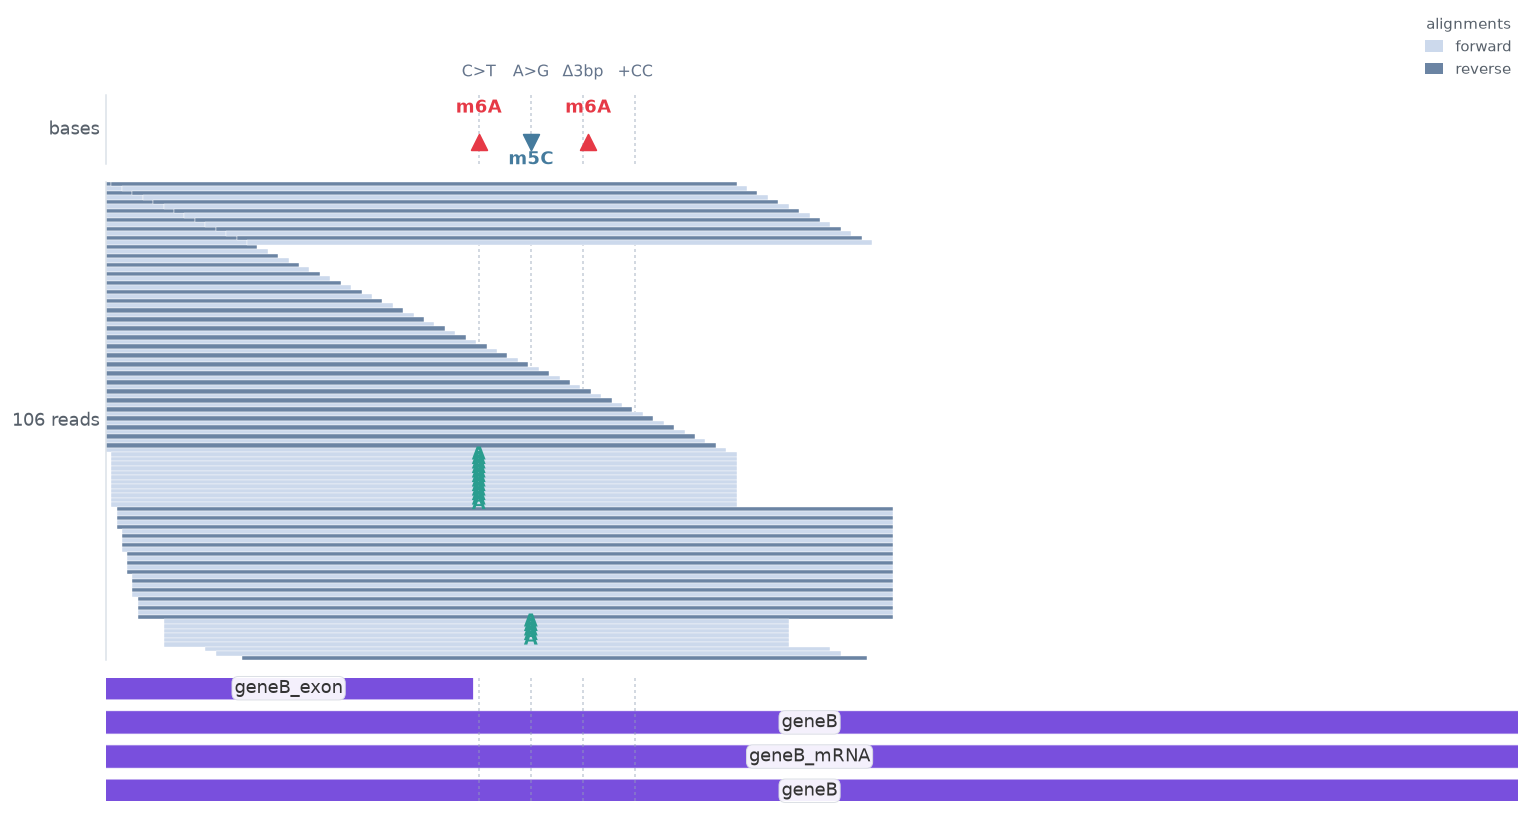
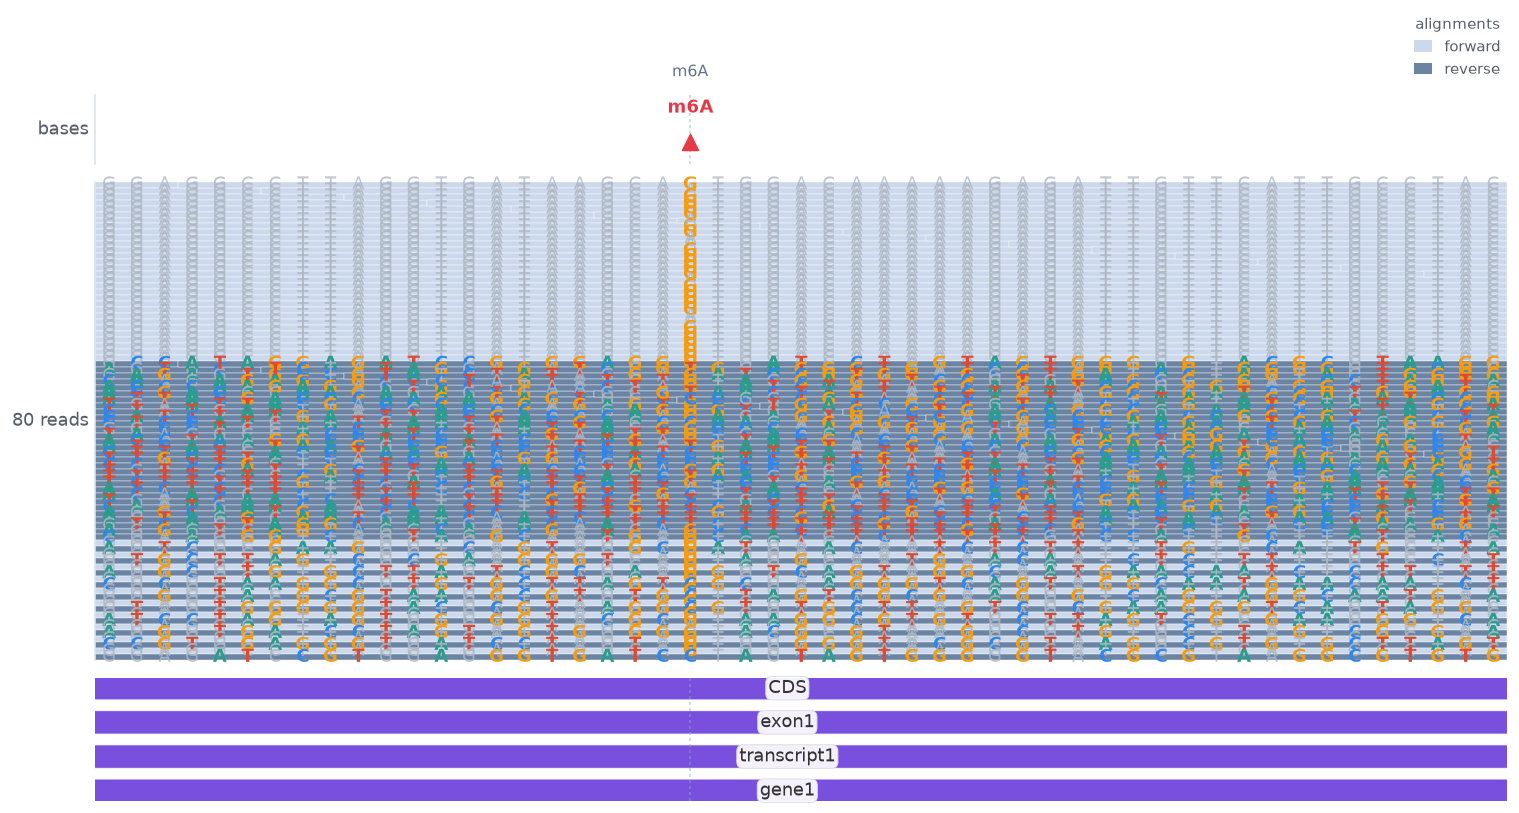
Fix m6A GLORI BAM: set reference_id so reads are properly mapped
- Add reference_id = 0 to AlignedSegment in make_m6a_glori_bam.py
- Regenerate m6a_reads.bam with proper chromosome mapping
- Update gallery_basemod to use m6A data showing A→G mutations
- BAM now has 614 properly mapped reads with A→G at m6A sites

diff --git a/scripts/make_m6a_glori_bam.py b/scripts/make_m6a_glori_bam.py
@@ -283,19 +283,23 @@ def main():
             })
     
     # Write BAM
-    with pysam.AlignmentFile(bam_path, "wb", header=header) as bam:
+    temp_bam = bam_path + ".unsorted.bam"
+    with pysam.AlignmentFile(temp_bam, "wb", header=header) as bam:
         for i, r in enumerate(reads):
             aln = pysam.AlignedSegment(bam.header)
             aln.query_name = f"read_{i:05d}"
             aln.query_sequence = r["query"]
             aln.is_reverse = (r["strand"] == "-")
             aln.mapping_quality = 60
+            aln.reference_id = 0  # Set reference ID to the first (and only) chromosome
             aln.reference_start = r["ref_start"]
             aln.cigar = r["cigar"]
             aln.query_qualities = pysam.qualitystring_to_array("I" * len(r["query"]))
             bam.write(aln)
     
-    pysam.sort("-o", bam_path, bam_path)
+    # Sort and index
+    pysam.sort("-o", bam_path, temp_bam)
+    os.remove(temp_bam)
     pysam.index(bam_path)
 
     print(f"[m6A GLORI] wrote:")
@@ -304,10 +308,10 @@ def main():
     print(f"  {sites_bed}")
     print(f"  {bam_path}")
     print(f"[m6A GLORI] contig={CONTIG} length={LENGTH} reads={len(reads)}")
-    print(f"[m6A GLORI] gene strand: NEGATIVE (-)")
+    print("[m6A GLORI] gene strand: NEGATIVE (-)")
     print(f"[m6A GLORI] m6A sites (A→G): {M6A_SITES}")
     print(f"[m6A GLORI] exons: {EXON1_START}-{EXON1_END}, {EXON2_START}-{EXON2_END}, {EXON3_START}-{EXON3_END}")
-    print(f"[m6A GLORI] reads from both +/- strands")
+    print("[m6A GLORI] reads from both +/- strands")
 
 
 if __name__ == "__main__":

diff --git a/examples/generate_gallery.py b/examples/generate_gallery.py
@@ -128,13 +128,19 @@ def color_mapq():
 
 
 def basemod():
-    """Strand-aware base-modification track (m6A/m5C markers) over clean reads."""
+    """Strand-aware base-modification track with GLORI-style A→G mutations at m6A sites."""
+    # Use the m6A GLORI synthetic data that has actual A→G mutations
+    M6A_BAM = os.path.join(REPO, "data", "m6a", "m6a_reads.bam")
+    M6A_REF = os.path.join(REPO, "data", "m6a", "m6a_genome.fa")
+    M6A_GB = os.path.join(REPO, "data", "m6a", "m6a_annotation.gb")
+    
+    # Zoom in on region with m6A sites
     view = (
-        GenomeView(region=HERO_REGION, reference=REF, figsize=(13, 7))
-        .add_base_mods({7000: (1, "m6A"), 7010: (-1, "m5C"), 7021: (1, "m6A")})
-        .add_reads(BAM, reference=REF, color_by="strand", max_reads=120)
-        .add_features(GB, min_feature_length=3)
-        .add_sites({7000: "C>T", 7010: "A>G", 7020: "Δ3bp", 7030: "+CC"})
+        GenomeView(region="chrM6A:230-280", reference=M6A_REF, figsize=(13, 7))
+        .add_base_mods({250: (1, "m6A"), 350: (1, "m6A"), 450: (1, "m6A")})
+        .add_reads(M6A_BAM, reference=M6A_REF, color_by="strand", max_reads=120)
+        .add_features(M6A_GB, min_feature_length=3)
+        .add_sites({250: "m6A", 350: "m6A", 450: "m6A"})
     )
     save(view, "gallery_basemod.png", dpi=120)
 
